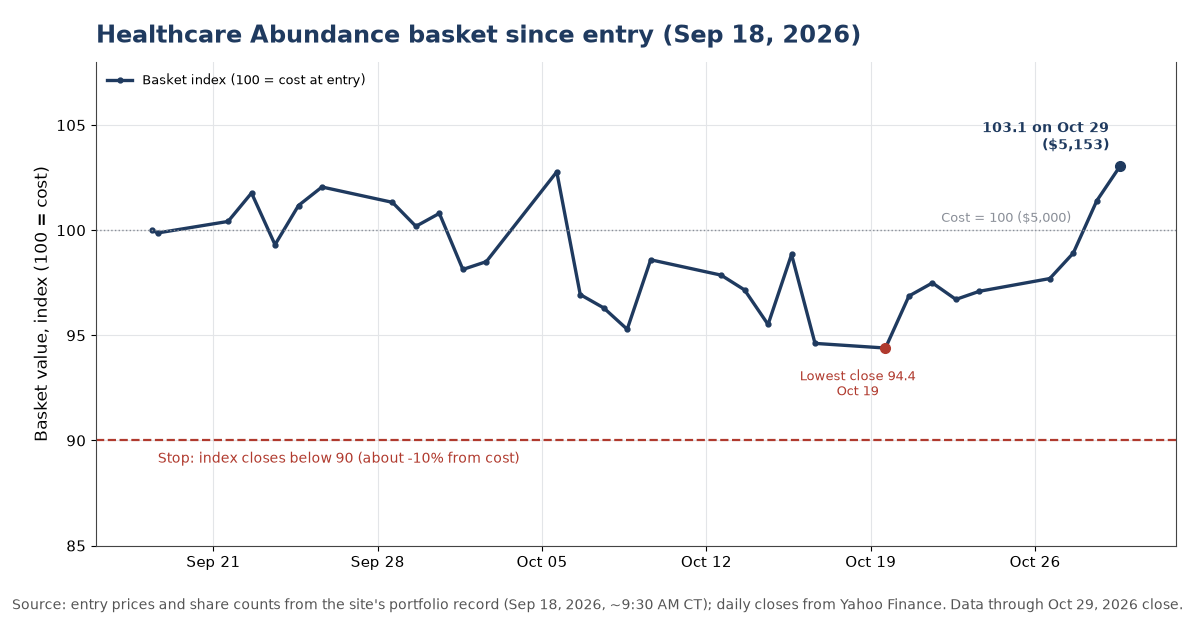
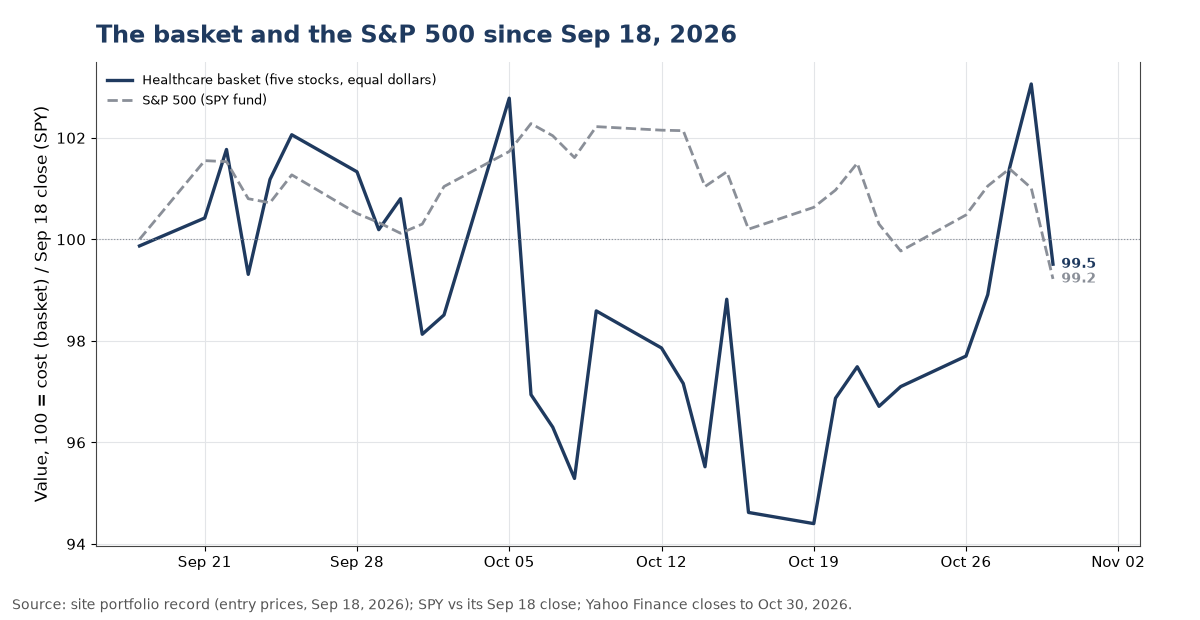
Preview: Healthcare Abundance rewrite (research essay, 4 charts) per G's handoff (#700)

diff --git a/site/healthcare.html b/site/healthcare.html
@@ -57,105 +57,22 @@
     <div class="nav-research" data-research-menu><noscript><a href="https://jsheppard8989.github.io/spacex-path/">SpaceX Model</a> · <a href="healthcare.html">Healthcare Abundance</a> · <a href="compute-thesis.html">Who Keeps the Profit from the AI Compute Shortage</a> · <a href="mu-memory-cycle.html">Micron and the Memory Cycle</a></noscript></div>
     <a href="archive.html">Archive</a>
   </nav>
-  <header class="hero">
+    <header class="hero">
     <p class="kicker">Healthcare · Research</p>
     <h1>Healthcare Abundance</h1>
     <p class="sub">Consumerization of Precision Medicine</p>
-    <p class="asof">As of Oct 30, 2026, using Oct 29 closing prices. First published Sep 18, 2026.</p>
+    <p class="asof">As of Oct 31, 2026, using Oct 30 closing prices. First published Sep 18, 2026.</p>
   </header>
   <main class="wrap">
     <article>
-      <section class="summary-box" aria-labelledby="summary-h">
-        <h2 id="summary-h">The short version</h2>
-        <p><strong>Our view (<span class="lbl lbl-opinion">OPINION</span>): Positive. We are keeping the Sep 18 basket of Hims &amp; Hers (HIMS), GoodRx (GDRX), Tempus AI (TEM), Guardant Health (GH) and Abbott (ABT).</strong> Our rule is to stay long unless an exit rule is hit, and none has been.</p>
-        <p>The $5,000 basket was worth $5,152.90 at the Oct 29 close, 3.1% above cost (<span class="lbl lbl-fact">FACT</span>, entry prices from the <a href="https://jsheppard8989.github.io/ai-finance-tech-dashboard/data/portfolio.json">site's portfolio record</a>, closes from <a href="https://finance.yahoo.com/quote/HIMS/history/">Yahoo Finance</a>).</p>
-        <p>The dated test is Hims &amp; Hers' third-quarter report after the market closes on Mon Nov 9, 2026. If it shows fewer than 2.891 million paying subscribers, we exit.</p>
+      <section class="summary-box" aria-labelledby="view-h">
+        <h2 id="view-h">Our view (opinion)</h2>
+        <p><strong>As new treatments become plentiful, the money in medicine moves to whoever owns the patient's path to care: finding the right person, testing them, fitting the treatment, getting it filled and keeping them on it.</strong> We think that shift is early, and we own it through a long basket of five stocks bought on Sep 18, 2026: Hims &amp; Hers, GoodRx, Tempus AI, Guardant Health and Abbott.</p>
+        <p>This is a long-term holding of shares, not a short-dated trade. Six weeks in, the basket is roughly where it started and level with the S&amp;P 500 (Chart 1). The case rests on years of business results, not weeks of prices, and nothing in the latest company reports has broken it.</p>
       </section>
 
-      <h2>Our view and paper trade</h2>
-      <p><strong>View (<span class="lbl lbl-opinion">OPINION</span>): Positive on the five-company basket. Kept, not changed.</strong> These five companies are making care cheaper and easier to get: online prescriptions (Hims &amp; Hers), drug price discounts (GoodRx), AI-driven cancer testing (Tempus AI and Guardant Health) and a large diagnostics maker (Abbott). Nothing since Sep 18 has broken the case, so we hold.</p>
-      <p><strong>Paper trade.</strong> Long stock: $1,000 in each of the five companies, $5,000 in total, opened Sep 18, 2026.</p>
-      <ul>
-        <li>Entry: Hims &amp; Hers $28.09, GoodRx $3.33, Tempus AI $77.97, Guardant Health $183.10, Abbott $102.20. These are the prices at about 9:30 AM CT on Sep 18, 2026, as recorded in the <a href="https://jsheppard8989.github.io/ai-finance-tech-dashboard/data/portfolio.json">site's portfolio record</a> when the basket was opened (<span class="lbl lbl-fact">FACT</span>).</li>
-        <li>Strike and expiry: none. These are shares, not options.</li>
-        <li>Max loss: we exit if the basket closes below 90 on an index where 100 is the cost. That is about 10% below cost, or about $500 on $5,000, and about 12.7% below the Oct 29 close of 103.1 (<span class="lbl lbl-inference">INFERENCE</span>, our arithmetic). The rule uses closing prices, so a sharp overnight drop, for example after an earnings report, could take us out below 90 and cost more than $500. As with any stock, the most that can be lost is the full $5,000.</li>
-        <li>What proves us wrong: either exit rule. (1) The basket index closes below 90. (2) Hims &amp; Hers reports fewer than 2.891 million paying subscribers for the third quarter of 2026, which is below its second-quarter count. Both rules were set when the basket was opened and will not be loosened.</li>
-        <li>Grade date: none. The trade is graded on the day an exit rule is hit: Right if we exit above cost, Wrong if below. Until then it is shown next to an S&amp;P 500 fund purchase of the same size made on Sep 18, 2026.</li>
-        <li>Why we hold through the earnings reports (<span class="lbl lbl-opinion">OPINION</span>): we think the market underprices how lasting subscriber growth at Hims &amp; Hers is and how fast revenue is growing at Tempus AI and Guardant Health. The result that proves it is Hims &amp; Hers third-quarter subscribers at or above 2.891 million on Nov 9, with Tempus AI (Nov 2) and Guardant Health (Nov 5) showing revenue still growing.</li>
-        <li>The Nov 9 bar is a tough one (<span class="lbl lbl-inference">INFERENCE</span>). The second quarter's jump of about 307,000 subscribers included the purchase of Eucalyptus (completed Jun 1, 2026), and Hims &amp; Hers did not say how many subscribers came from that deal (<span class="lbl lbl-fact">FACT</span>, <a href="https://www.sec.gov/Archives/edgar/data/1773751/000177375126000163/hims-20260630.htm">second-quarter 10-Q</a>). So the Nov 9 comparison is harder than in past quarters.</li>
-        <li>The options market expects big moves on these reports (<span class="lbl lbl-inference">INFERENCE</span>). Implied volatility, the size of swing that option prices assume, was 73% for Hims &amp; Hers options expiring Nov 6, before its report, and 106% for those expiring Nov 13, after it. For Tempus AI it was 63% before and 94% after (<span class="lbl lbl-fact">FACT</span>, <a href="https://finance.yahoo.com/quote/HIMS/options/">Yahoo option chains</a>, 1:52 PM CT Oct 29, 2026).</li>
-      </ul>
+      <h2>The idea</h2>
 
-      <h2>What to watch, with dates</h2>
-      <div class="tbl"><table>
-        <thead><tr><th>Date (CT)</th><th>Event</th><th>Status and source</th></tr></thead>
-        <tbody>
-          <tr><td>Mon Nov 2, before the market opens (call 7:45 AM)</td><td>Tempus AI third-quarter 2026 results. Analysts expect revenue of about $409.4 million (<span class="lbl lbl-reported">REPORTED</span>, <a href="https://www.marketbeat.com/earnings/reports/2026-11-2-tempus-ai-inc-stock/">MarketBeat</a>).</td><td><span class="lbl lbl-fact">FACT</span> date set by the company: <a href="https://www.tempus.com/news/pr/tempus-to-report-third-quarter-2026-financial-results-on-november-2/">Tempus AI release</a></td></tr>
-          <tr><td>Nov 3 after the close, or Nov 10 before the open</td><td>GoodRx third-quarter 2026 results</td><td><span class="lbl lbl-unverified">UNVERIFIED</span> GoodRx has not announced a date (<a href="https://goodrx.gcs-web.com/news-and-events/press-releases">GoodRx releases</a>). <a href="https://www.marketbeat.com/earnings/reports/2026-11-3-goodrx-holdings-inc-stock/">MarketBeat</a> estimates Nov 3; <a href="https://bullstory.io/en/stocks/gdrx/earnings/2026-q3">Bullstory</a> lists Nov 10.</td></tr>
-          <tr><td>Thu Nov 5, after the close (call 3:30 PM)</td><td>Guardant Health third-quarter 2026 results. Analysts expect revenue of about $350.7 million (<span class="lbl lbl-reported">REPORTED</span>, <a href="https://www.tradingview.com/news/tradingview:b419dd2a42e6e:0-gh-q3-26-earnings-revenue-estimate-is-350-72m-usd/">TradingView</a>).</td><td><span class="lbl lbl-fact">FACT</span> date set by the company: <a href="https://investors.guardanthealth.com/press-releases/press-releases/2026/Guardant-Health-to-Report-Third-Quarter-2026-Financial-Results-on-November-5-2026/default.aspx">Guardant Health release</a></td></tr>
-          <tr><td><strong>Mon Nov 9, after the close (call 4:00 PM)</strong></td><td><strong>Hims &amp; Hers third-quarter 2026 results. This report can trigger the subscriber exit rule (fewer than 2.891 million).</strong> The company guided to third-quarter revenue of $880 million to $900 million.</td><td><span class="lbl lbl-fact">FACT</span> date set by the company: <a href="https://investors.hims.com/news/news-details/2026/Hims--Hers-to-Announce-Third-Quarter-2026-Financial-Results-on-November-9-2026/default.aspx">Hims &amp; Hers release</a>; guidance in the <a href="https://investors.hims.com/news/news-details/2026/Hims--Hers-Health-Inc--Reports-Second-Quarter-2026-Financial-Results/default.aspx">second-quarter release</a></td></tr>
-          <tr><td>Not yet released</td><td>Medicare's final 2027 payment rule for hospital outpatient services. Last year's came out Nov 25, 2025. Most outpatient lab tests are paid under a separate lab fee schedule, so the direct effect on Tempus AI and Guardant Health is likely small (<span class="lbl lbl-inference">INFERENCE</span>).</td><td><span class="lbl lbl-fact">FACT</span> not out as of the morning of Oct 30: <a href="https://www.cms.gov/medicare/payment/prospective-payment-systems/hospital-outpatient/regulations-notices">CMS rules page</a>, <a href="https://www.federalregister.gov/public-inspection/current">Federal Register</a>; <a href="https://www.govinfo.gov/content/pkg/FR-2026-07-07/html/2026-13656.htm">proposed rule</a></td></tr>
-          <tr><td>About Jan 22, 2027</td><td>Abbott fourth-quarter 2026 results</td><td><span class="lbl lbl-unverified">UNVERIFIED</span> not announced; our estimate from Abbott's usual late-January timing. Last report was Oct 21, 2026: <a href="https://abbott.mediaroom.com/2026-10-21-Abbott-Reports-Third-Quarter-2026-Results-and-Reaffirms-Full-Year-EPS-Guidance">Abbott release</a></td></tr>
-        </tbody>
-      </table></div>
-
-      <figure class="chart" id="chart-1">
-        <figcaption><span class="cnum">Chart 1</span> The basket since Sep 18: below cost for most of October, back above it by Oct 29. The lowest close was 94.4, above the exit line at 90.</figcaption>
-        <a class="chart-full" href="charts/healthcare/01.png" data-lightbox aria-label="Open chart 1 full size"><img src="charts/healthcare/01.png" alt="Line chart of the five-stock basket from Sep 18 to Oct 29, 2026, as an index where 100 is the $5,000 cost. It moves between about 94 and 103, with a lowest close of 94.4 on Oct 19 and 103.1 on Oct 29. A dashed red line at 90 marks the exit rule." loading="lazy" decoding="async"></a>
-        <p class="cnote">Source: entry prices and share counts from the site's portfolio record (Sep 18, 2026, about 9:30 AM CT); daily closes from Yahoo Finance. Data through the Oct 29, 2026 close. The S&amp;P 500 comparison is not drawn because we did not have its daily prices for this update. Click the chart to open it full size.</p>
-      </figure>
-      <figure class="chart" id="chart-2">
-        <figcaption><span class="cnum">Chart 2</span> Hims &amp; Hers paying subscribers rose in each of the last eight quarters. The third-quarter count, due Nov 9, must be at least 2.891 million.</figcaption>
-        <a class="chart-full" href="charts/healthcare/02.png" data-lightbox aria-label="Open chart 2 full size"><img src="charts/healthcare/02.png" alt="Bar chart of Hims and Hers paying subscribers at the end of each quarter from the third quarter of 2024 to the second quarter of 2026: 2.047, 2.229, 2.366, 2.439, 2.471, 2.511, 2.584 and 2.891 million. A dashed red line at 2.891 million marks the exit rule." loading="lazy" decoding="async"></a>
-        <p class="cnote">Source: Hims &amp; Hers 10-Q and 10-K filings on SEC EDGAR, "Subscribers (end of period)" table, pulled Oct 29, 2026. The second-quarter 2026 count includes Eucalyptus, which the company did not split out. Click the chart to open it full size.</p>
-      </figure>
-      <figure class="chart" id="chart-3">
-        <figcaption><span class="cnum">Chart 3</span> Tempus AI's quarterly revenue more than doubled in two years. GoodRx's stayed between $194 million and $203 million.</figcaption>
-        <a class="chart-full" href="charts/healthcare/03.png" data-lightbox aria-label="Open chart 3 full size"><img src="charts/healthcare/03.png" alt="Paired bar chart of quarterly revenue from the third quarter of 2024 to the second quarter of 2026. Tempus AI rises from $181 million to $382 million. GoodRx stays between $194 million and $203 million." loading="lazy" decoding="async"></a>
-        <p class="cnote">Source: SEC EDGAR company filings (10-Q and 10-K revenue), pulled Oct 29, 2026. Fourth-quarter figures are not filed on their own; they are full-year revenue minus the first three quarters (our arithmetic), shown hatched. Click the chart to open it full size.</p>
-      </figure>
-
-      <h2>Where the five companies stand</h2>
-      <div class="tbl"><table>
-        <thead><tr><th>Company</th><th>Its role in the idea</th><th>Entry (Sep 18)</th><th>Oct 29 close</th><th>Change</th></tr></thead>
-        <tbody>
-          <tr><td>Hims &amp; Hers (HIMS)</td><td>Owns the consumer relationship</td><td>$28.09</td><td>$29.67</td><td>+5.6%</td></tr>
-          <tr><td>GoodRx (GDRX)</td><td>Removes friction in getting a prescription filled</td><td>$3.33</td><td>$3.54</td><td>+6.3%</td></tr>
-          <tr><td>Tempus AI (TEM)</td><td>Matches patients to treatments using test data</td><td>$77.97</td><td>$77.84</td><td>−0.2%</td></tr>
-          <tr><td>Guardant Health (GH)</td><td>Finds and monitors cancer with blood tests</td><td>$183.10</td><td>$185.31</td><td>+1.2%</td></tr>
-          <tr><td>Abbott (ABT)</td><td>Continuous measurement, such as glucose sensors</td><td>$102.20</td><td>$104.57</td><td>+2.3%</td></tr>
-        </tbody>
-      </table></div>
-      <p class="mut">Entry prices from the <a href="https://jsheppard8989.github.io/ai-finance-tech-dashboard/data/portfolio.json">site's portfolio record</a>; Oct 29 closes from Yahoo Finance (<a href="https://finance.yahoo.com/quote/HIMS/history/">HIMS</a>, <a href="https://finance.yahoo.com/quote/GDRX/history/">GDRX</a>, <a href="https://finance.yahoo.com/quote/TEM/history/">TEM</a>, <a href="https://finance.yahoo.com/quote/GH/history/">GH</a>, <a href="https://finance.yahoo.com/quote/ABT/history/">ABT</a>) (<span class="lbl lbl-fact">FACT</span>).</p>
-      <ul>
-        <li>Hims &amp; Hers, second quarter 2026: revenue $753.2 million, up 38% from a year earlier; 2.891 million subscribers, up 19%; average monthly revenue per subscriber $92 ($90 without Eucalyptus). Full-year revenue guidance was raised to $3.1 billion to $3.3 billion (<span class="lbl lbl-fact">FACT</span>, <a href="https://investors.hims.com/news/news-details/2026/Hims--Hers-Health-Inc--Reports-Second-Quarter-2026-Financial-Results/default.aspx">company release</a>).</li>
-        <li>GoodRx, second quarter 2026: revenue $200.4 million, down 1%. Revenue from prescription discounts fell 26%, while programs paid for by drugmakers grew 76% to $61.6 million and subscriptions grew 39% to $28.5 million (<span class="lbl lbl-fact">FACT</span>, <a href="https://www.sec.gov/Archives/edgar/data/1809519/000180951926000151/gdrxq226-exx991pressrelease.htm">company release</a>).</li>
-        <li>Tempus AI, second quarter 2026: revenue $382.5 million, up 22%; cancer-test volume up 31%. Full-year revenue guidance was raised to $1.595 billion to $1.605 billion, about 25% growth (<span class="lbl lbl-fact">FACT</span>, <a href="https://www.sec.gov/Archives/edgar/data/1717115/000119312526326083/tem-ex99_1.htm">company release</a>).</li>
-        <li>Guardant Health, second quarter 2026: revenue $335.0 million, up 44%. Its Shield blood test for colorectal cancer brought in $52.9 million on about 66,000 tests, up from $14.8 million on about 16,000 a year earlier (<span class="lbl lbl-fact">FACT</span>, <a href="https://www.sec.gov/Archives/edgar/data/1576280/000157628026000036/gh-06302026xexhibit991.htm">company release</a>).</li>
-        <li>Abbott, third quarter 2026: sales $13.013 billion, up 7.0% on a comparable basis. It now expects about 6% comparable sales growth for 2026 (<span class="lbl lbl-fact">FACT</span>, <a href="https://abbott.mediaroom.com/2026-10-21-Abbott-Reports-Third-Quarter-2026-Results-and-Reaffirms-Full-Year-EPS-Guidance">company release</a>), down from 6.5% to 7.5% before (<span class="lbl lbl-reported">REPORTED</span>, <a href="https://finance.yahoo.com/healthcare/articles/abbott-lowers-2026-sales-growth-113220440.html">Reuters via Yahoo</a>).</li>
-      </ul>
-      <p><strong>The weakest names (<span class="lbl lbl-opinion">OPINION</span>).</strong> GoodRx is the weakest. Its revenue has stayed between $194 million and $203 million for eight quarters, and the fast-growing parts have not yet moved the total (Chart 3). Abbott is the second name to watch. It cut its 2026 sales growth outlook on Oct 21, and it now owns Exact Sciences and sells a blood test for colorectal cancer that competes with Guardant Health's Shield (<span class="lbl lbl-fact">FACT</span>, <a href="https://abbott.mediaroom.com/2026-10-21-Abbott-Reports-Third-Quarter-2026-Results-and-Reaffirms-Full-Year-EPS-Guidance">Abbott release</a>).</p>
-
-      <h2>The historical rhyme</h2>
-      <p>Our rhyme is the companies' own record. Hims &amp; Hers subscribers rose every quarter for eight quarters, from 2.047 million to 2.891 million. Tempus AI's quarterly revenue went from $180.9 million to $382.5 million over the same two years, while GoodRx stayed flat (<span class="lbl lbl-fact">FACT</span>, <a href="https://www.sec.gov/Archives/edgar/data/1773751/000177375126000163/hims-20260630.htm">SEC filings</a>; Charts 2 and 3). In that eight-quarter record, the subscriber exit rule would never have been hit (<span class="lbl lbl-inference">INFERENCE</span>). The caveat is the Eucalyptus purchase described above, which makes Nov 9 a harder comparison.</p>
-
-      <h2>Upside versus downside</h2>
-      <ul>
-        <li>Downside: about 12.7% from the Oct 29 close of 103.1 to the exit line at 90 (<span class="lbl lbl-inference">INFERENCE</span>, our arithmetic), and more if a stock drops sharply overnight.</li>
-        <li>Upside: if all five returned to their highest prices of the past year (Hims &amp; Hers $48.34, GoodRx $3.89, Tempus AI $91.83, Guardant Health $191.05, Abbott $132.03; <span class="lbl lbl-fact">FACT</span>, <a href="https://finance.yahoo.com/quote/HIMS/">Yahoo Finance</a>, Oct 29, 2026), the index would be about 128.0, or about 24.2% above the Oct 29 close (<span class="lbl lbl-inference">INFERENCE</span>, our arithmetic, not a forecast). Guardant Health and GoodRx are already close to those highs, so most of that room is in Hims &amp; Hers, Abbott and Tempus AI.</li>
-        <li>Our read (<span class="lbl lbl-opinion">OPINION</span>): the downside is defined and close. The upside depends mostly on Hims &amp; Hers, which is also the company behind the subscriber exit rule, so Nov 9 is the report that matters most.</li>
-      </ul>
-
-      <h2>What we could not verify</h2>
-      <ul>
-        <li>GoodRx's third-quarter report date. The company has not announced it, and outside sites disagree (Nov 3 or Nov 10) (<span class="lbl lbl-unverified">UNVERIFIED</span>).</li>
-        <li>Abbott's fourth-quarter report date. About Jan 22, 2027 is our estimate only (<span class="lbl lbl-unverified">UNVERIFIED</span>).</li>
-        <li>How many of Hims &amp; Hers' second-quarter subscribers came from Eucalyptus. The company has not said.</li>
-        <li>The date of Medicare's final 2027 outpatient payment rule, and whether it changes how molecular lab tests are paid. We have not read the full proposed rule on that point.</li>
-      </ul>
-      <p><strong>How to read the labels.</strong> <span class="lbl lbl-fact">FACT</span> comes from a primary source such as a company release or SEC filing, linked on each line. <span class="lbl lbl-reported">REPORTED</span> comes from a named secondary source, also linked. <span class="lbl lbl-inference">INFERENCE</span> is our own arithmetic or reasoning, shown. <span class="lbl lbl-opinion">OPINION</span> is our judgment. <span class="lbl lbl-unverified">UNVERIFIED</span> means we could not confirm it.</p>
-
-      <h2>The original idea (Sep 18, 2026)</h2>
       <p>The scarce thing in medicine is moving. For a long time the hard problem was inventing a treatment that worked, then forcing it through a slow and expensive system. AI and genomics are making new therapies more common and cheaper to discover. When that happens, “another molecule” stops being the bottleneck. The hard problem becomes finding the right person, diagnosing them early, choosing the treatment that fits, delivering it conveniently, and keeping them on it. That is the interface between a human and the healthcare system. This note is about who owns that interface — not necessarily who owns the drug.</p>
       <p>The consumerization of precision medicine is where 3 forces meet. First, more therapies exist, so abundance replaces scarcity at the discovery step. Second, people start managing health as a habit — testing, monitoring, refilling — instead of showing up only when they are already sick. Third, digital rails make care something you can buy like a consumer service: a relationship, a subscription, a same-day fill, a wearable that talks back. The winner does not have to manufacture the breakthrough. They may own the last mile of trust, data, and fulfillment.</p>
       <p>This is the next layer after genomics and discovery investing. Discovery asks whether we will invent more. This thesis asks who captures value when therapies are plentiful and consumers actually show up. Both can win in a growing pie. They are sequential, not substitutes. If AI is going to help grow us out of fiscal pressure — including Medicare and Medicaid — the public needs a win they can feel: more cures, lower cost of care.</p>
@@ -171,6 +88,58 @@
       <p>Continuous consumer measurement takes a clinical sensor into everyday life — continuous glucose and adjacent metabolic feeds as a habit, not only as a disease label. Without that feed, the other pieces guess; with it, relationship, access, and diagnose-and-fit can personalize and retain.</p>
       <p>Upstream discovery tools, trial infrastructure, and wholesale distribution still matter. They are durable — and they are not this expression of the idea. The bottleneck has moved to interface, access, fit, find-and-monitor, and continuous measurement.</p>
       <p>This is how I chose to position for the abundant health future ahead for us all.</p>
+
+      <h2>The historical rhyme</h2>
+      <p>Health care has been one of the economy's most persistent growers. US national health spending was 5.0% of GDP in 1960, 8.9% in 1980, 13.3% in 2000 and 18.0% in 2024, according to the federal government's own accounts (Chart 4). The share is higher at the end of every decade in that record than at its start.</p>
+      <p>That long climb is the rhyme. For sixty years more of the economy has flowed into health care, and the question has always been which part of the system keeps it. We think the next part to be rewarded is the one closest to the patient, because that is where a crowded menu of treatments turns into a choice someone has to make.</p>
+      <figure class="chart" id="chart-4">
+        <figcaption><span class="cnum">Chart 4</span> US health spending rose from 5.0% of GDP in 1960 to 18.0% in 2024. The 2020 peak of 19.7% came in the year the economy shrank.</figcaption>
+        <a class="chart-full" href="charts/healthcare/04.png" data-lightbox aria-label="Open chart 4 full size"><img src="charts/healthcare/04.png" alt="Line chart of US national health expenditures as a percent of GDP from 1960 to 2024: 5.0% in 1960, 8.9% in 1980, 13.3% in 2000, a peak of 19.7% in 2020 and 18.0% in 2024." loading="lazy" decoding="async"></a>
+        <p class="cnote">Source: Centers for Medicare &amp; Medicaid Services, <a href='https://www.cms.gov/data-research/statistics-trends-and-reports/national-health-expenditure-data/historical'>National Health Expenditure Accounts</a>, summary table for 1960 to 2024, downloaded Oct 31, 2026. Click the chart to open it full size.</p>
+      </figure>
+
+      <p>The companies in the basket are already showing the pattern in their own numbers. Hims &amp; Hers grew paying subscribers in each of the last eight quarters, from 2.047 million to 2.891 million (Chart 2). Tempus AI's quarterly revenue more than doubled over the same two years, from $180.9 million to $382.5 million (Chart 3). GoodRx, the price-comparison business, is the exception: its revenue has stayed between $194 million and $203 million a quarter.</p>
+      <figure class="chart" id="chart-2">
+        <figcaption><span class="cnum">Chart 2</span> Hims &amp; Hers paying subscribers rose in each of the last eight quarters, to 2.891 million.</figcaption>
+        <a class="chart-full" href="charts/healthcare/02.png" data-lightbox aria-label="Open chart 2 full size"><img src="charts/healthcare/02.png" alt="Bar chart of Hims &amp; Hers paying subscribers at the end of each quarter from the third quarter of 2024 (2.047 million) to the second quarter of 2026 (2.891 million), rising every quarter." loading="lazy" decoding="async"></a>
+        <p class="cnote">Source: Hims &amp; Hers 10-Q and 10-K filings on <a href='https://www.sec.gov/Archives/edgar/data/1773751/000177375126000163/hims-20260630.htm'>SEC EDGAR</a>, &quot;Subscribers (end of period)&quot; table, pulled Oct 29, 2026. The second-quarter 2026 count includes Eucalyptus, a company Hims &amp; Hers bought on Jun 1, 2026; it did not say how many subscribers came from that deal. Click the chart to open it full size.</p>
+      </figure>
+      <figure class="chart" id="chart-3">
+        <figcaption><span class="cnum">Chart 3</span> Tempus AI's quarterly revenue more than doubled in two years. GoodRx's stayed between $194 million and $203 million.</figcaption>
+        <a class="chart-full" href="charts/healthcare/03.png" data-lightbox aria-label="Open chart 3 full size"><img src="charts/healthcare/03.png" alt="Bar chart of quarterly revenue for Tempus AI and GoodRx over the last eight quarters. Tempus AI rises from about $181 million to about $383 million; GoodRx stays near $200 million." loading="lazy" decoding="async"></a>
+        <p class="cnote">Source: SEC EDGAR company filings (10-Q and 10-K revenue), pulled Oct 29, 2026. Fourth-quarter figures are not filed on their own; they are full-year revenue minus the first three quarters (our arithmetic), shown hatched. Click the chart to open it full size.</p>
+      </figure>
+
+      <h2>What we hold</h2>
+      <p>A long stock basket: $1,000 of shares in each of five companies, $5,000 in total, bought at about 9:30 AM CT on Sep 18, 2026, as recorded in the <a href="https://jsheppard8989.github.io/ai-finance-tech-dashboard/data/portfolio.json">site's portfolio record</a>. Each company fills one part of the idea.</p>
+      <div class="tbl"><table>
+        <thead><tr><th>Company</th><th>Its part of the idea</th><th>Bought (Sep 18)</th><th>Oct 30 close</th></tr></thead>
+        <tbody>
+          <tr><td>Hims &amp; Hers (HIMS)</td><td>Owns the consumer relationship</td><td>$28.09</td><td><a href="https://finance.yahoo.com/quote/HIMS/history/">$27.68</a></td></tr>
+          <tr><td>GoodRx (GDRX)</td><td>Makes a prescription cheaper and easier to fill</td><td>$3.33</td><td><a href="https://finance.yahoo.com/quote/GDRX/history/">$3.49</a></td></tr>
+          <tr><td>Tempus AI (TEM)</td><td>Matches patients to treatments using test data</td><td>$77.97</td><td><a href="https://finance.yahoo.com/quote/TEM/history/">$72.22</a></td></tr>
+          <tr><td>Guardant Health (GH)</td><td>Finds and monitors cancer with blood tests</td><td>$183.10</td><td><a href="https://finance.yahoo.com/quote/GH/history/">$178.80</a></td></tr>
+          <tr><td>Abbott (ABT)</td><td>Continuous measurement, such as glucose sensors</td><td>$102.20</td><td><a href="https://finance.yahoo.com/quote/ABT/history/">$106.20</a></td></tr>
+        </tbody>
+      </table></div>
+      <p>At the Oct 30 close the basket was worth $4,975, about 0.5% below what it cost. The S&amp;P 500 fund SPY was down about 0.8% from its Sep 18 close. Along the way the basket has swung more than the market, from about 5.6% below cost on Oct 19 to about 3.1% above on Oct 29 (Chart 1).</p>
+      <figure class="chart" id="chart-1">
+        <figcaption><span class="cnum">Chart 1</span> Six weeks in, the basket and the S&amp;P 500 are both about where they started. The basket has swung more.</figcaption>
+        <a class="chart-full" href="charts/healthcare/01.png" data-lightbox aria-label="Open chart 1 full size"><img src="charts/healthcare/01.png" alt="Line chart from Sep 18 to Oct 30, 2026 comparing the five-stock basket with the S&amp;P 500 fund SPY, both set to 100 at cost. The basket ranges from 94.4 on Oct 19 to 103.1 on Oct 29 and ends at 99.5; the S&amp;P 500 ends at 99.2." loading="lazy" decoding="async"></a>
+        <p class="cnote">Source: basket purchase prices and share counts from the site's portfolio record (Sep 18, 2026, about 9:30 AM CT); the S&amp;P 500 line is the SPY fund indexed to its Sep 18 close (price only, no dividends); daily closes from <a href='https://finance.yahoo.com/quote/SPY/history/'>Yahoo Finance</a> through Oct 30, 2026. Click the chart to open it full size.</p>
+      </figure>
+
+      <h2>Upside versus downside</h2>
+      <p><strong>Upside.</strong> If all five stocks returned to their highest prices of the past year (Hims &amp; Hers $48.34, GoodRx $3.89, Tempus AI $91.83, Guardant Health $191.05, Abbott $132.03, per <a href="https://finance.yahoo.com/quote/HIMS/">Yahoo Finance</a> on Oct 29, 2026), the basket would be worth about $6,400, roughly 28% above cost. That is arithmetic, not a forecast. Guardant Health and GoodRx are already near those highs, so most of the room is in Hims &amp; Hers, Abbott and Tempus AI. The larger upside is the one a price range cannot show: if the idea is right, these businesses are early in a long expansion.</p>
+      <p><strong>Downside.</strong> The same arithmetic at the past year's lowest prices (Hims &amp; Hers $13.74, GoodRx $1.77, Tempus AI $40.77, Guardant Health $74.55, Abbott $81.97) would leave the basket worth about $2,750, roughly 45% below cost. These are volatile companies. Hims &amp; Hers posted a net loss of $86.3 million in the second quarter on $753.2 million of revenue (<a href="https://www.sec.gov/Archives/edgar/data/1773751/000177375126000163/hims-20260630.htm">10-Q</a>). Abbott cut its 2026 sales growth outlook to about 6% on Oct 21 (<a href="https://abbott.mediaroom.com/2026-10-21-Abbott-Reports-Third-Quarter-2026-Results-and-Reaffirms-Full-Year-EPS-Guidance">Abbott release</a>).</p>
+      <p>Our read: the upside is tied to a multi-year shift in where health spending goes, and the downside is mostly the price swings that come with fast-growing companies. Owning five companies in different parts of the chain means one stumble does not sink the idea.</p>
+
+      <h2>What would change our mind</h2>
+      <ul>
+        <li><strong>Subscribers stall.</strong> Hims &amp; Hers is the clearest test of the consumer relationship. Its third-quarter report on Nov 9, 2026 (<a href="https://investors.hims.com/news/news-details/2026/Hims--Hers-to-Announce-Third-Quarter-2026-Financial-Results-on-November-9-2026/default.aspx">company notice</a>) is the first full quarter after the Eucalyptus purchase. A fall below the second quarter's 2.891 million would suggest people come for one campaign and leave.</li>
+        <li><strong>The access layer gets cut out.</strong> GoodRx's revenue has been flat for two years. In the second quarter its drugmaker programs grew 76% to $61.6 million while prescription discounts fell 26% (<a href="https://www.sec.gov/Archives/edgar/data/1809519/000180951926000151/gdrxq226-exx991pressrelease.htm">company release</a>). If big pharmacies, middlemen or drugmakers build the easy path themselves, that part of the idea fails.</li>
+        <li><strong>Testing growth slows.</strong> Tempus AI (revenue up 22% in the second quarter, <a href="https://www.sec.gov/Archives/edgar/data/1717115/000119312526326083/tem-ex99_1.htm">release</a>) and Guardant Health (up 44%, <a href="https://www.sec.gov/Archives/edgar/data/1576280/000157628026000036/gh-06302026xexhibit991.htm">release</a>) need volume to keep compounding. Abbott now sells a blood test for colorectal cancer that competes with Guardant Health's Shield. Tempus AI reports on Nov 2 and Guardant Health on Nov 5.</li>
+      </ul>
     </article>
   </main>
   <footer>

diff --git a/pipeline/test_healthcare_page.py b/pipeline/test_healthcare_page.py
@@ -1,4 +1,4 @@
-"""Checks for site/healthcare.html (Healthcare Abundance research page, Oct 30, 2026 update)."""
+"""Checks for site/healthcare.html (Healthcare Abundance research page, Oct 31, 2026 research-essay rewrite)."""
 import re
 import sys
 from pathlib import Path
@@ -23,7 +23,6 @@ def test_healthcare_one_disclaimer_mentions_paper_trades():
     assert s.count("<strong>Disclaimer:</strong>") == 1
     assert text.lower().count("not investment advice") == 1
     assert "including its paper trades" in text
-    assert "<strong>Paper trade.</strong>" in s
 
 
 def test_healthcare_banned_words_and_internal_text():
@@ -40,22 +39,24 @@ def test_healthcare_style_gate_clean():
     assert not style_gate_hits(_text(_src()))
 
 
-def test_healthcare_view_trade_and_names():
-    t = " ".join(_text(_src()).split())
-    assert "keeping the Sep 18 basket" in t
-    for p in ("$28.09", "$3.33", "$77.97", "$183.10", "$102.20", "2.891 million", "below 90"):
+def test_healthcare_view_basket_and_names():
+    t = " ".join(_text(_src()).split()).replace("&amp;", "&")
+    assert "Our view (opinion)" in t and t.lower().count("opinion") == 1
+    assert "long stock basket" in t
+    for p in ("$28.09", "$3.33", "$77.97", "$183.10", "$102.20", "The historical rhyme", "Upside versus downside", "What would change our mind"):
         assert p in t, p
     for n in ("Hims & Hers", "GoodRx", "Tempus AI", "Guardant Health", "Abbott"):
-        assert n in t.replace("&amp;", "&"), n
-    assert "Grade date: none" in t and "Strike and expiry: none" in t
+        assert n in t, n
+    # research piece, not a trade write-up
+    assert not re.search(r"call spread|\bstrikes?\b|expiry|\bdebits?\b|max loss|\bstop\b|\btargets?\b|below 90|\bgrades?\b|right if|wrong if|hit rate", t, re.I)
 
 
 def test_healthcare_charts_and_nav():
     s = _src()
     assert "data-research-menu" in s and "./js/research-nav.js" in s
     assert "<title>Healthcare Abundance</title>" in s and "<h1>Healthcare Abundance</h1>" in s
-    for n in (1, 2, 3):
+    for n in (1, 2, 3, 4):
         assert re.search(r'<a class="chart-full" href="charts/healthcare/0%d\.png" data-lightbox[^>]*>\s*<img src="charts/healthcare/0%d\.png"' % (n, n), s), n
         assert (SITE / "charts" / "healthcare" / ("0%d.png" % n)).is_file(), n
-    assert s.count('<p class="cnote">Source:') == 3
+    assert s.count('<p class="cnote">Source:') == 4
     assert re.search(r'<p class="asof"[^>]*>As of ', s)
